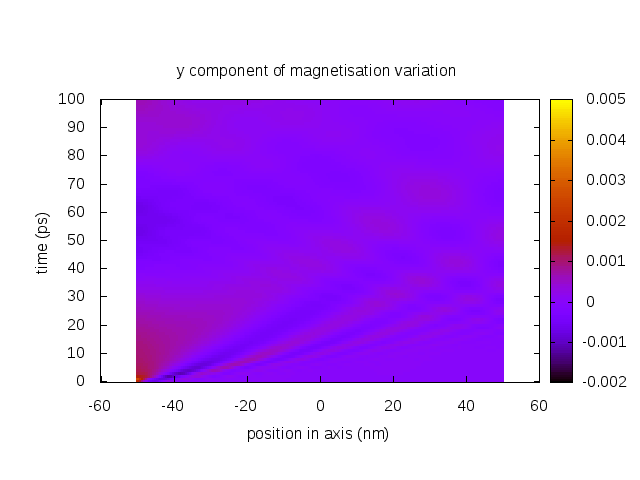
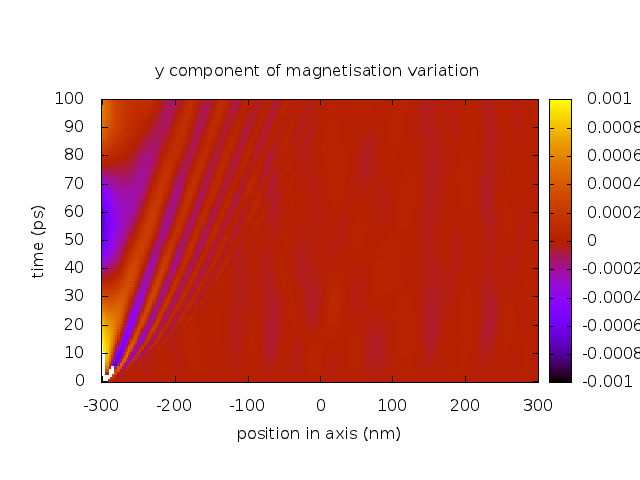
Make wire longer for dispersion relation study (with Matteo)

diff --git a/nmag/example_nmagprobe/dynamics.py b/nmag/example_nmagprobe/dynamics.py
@@ -2,7 +2,7 @@ from thesystem import simulate_nanowire, m0_filename, ps, nm
 from nmag.common import *
 
 # Details about the pulse
-pulse_boundary = -50.0e-9 + 0.5e-9 # float in nm
+pulse_boundary = -300.0e-9 + 0.5e-9 # float in nm
 pulse_direction = [0, 1, 0]
 pulse_amplitude = SI(1e5, 'A/m')
 pulse_duration = 1*ps
